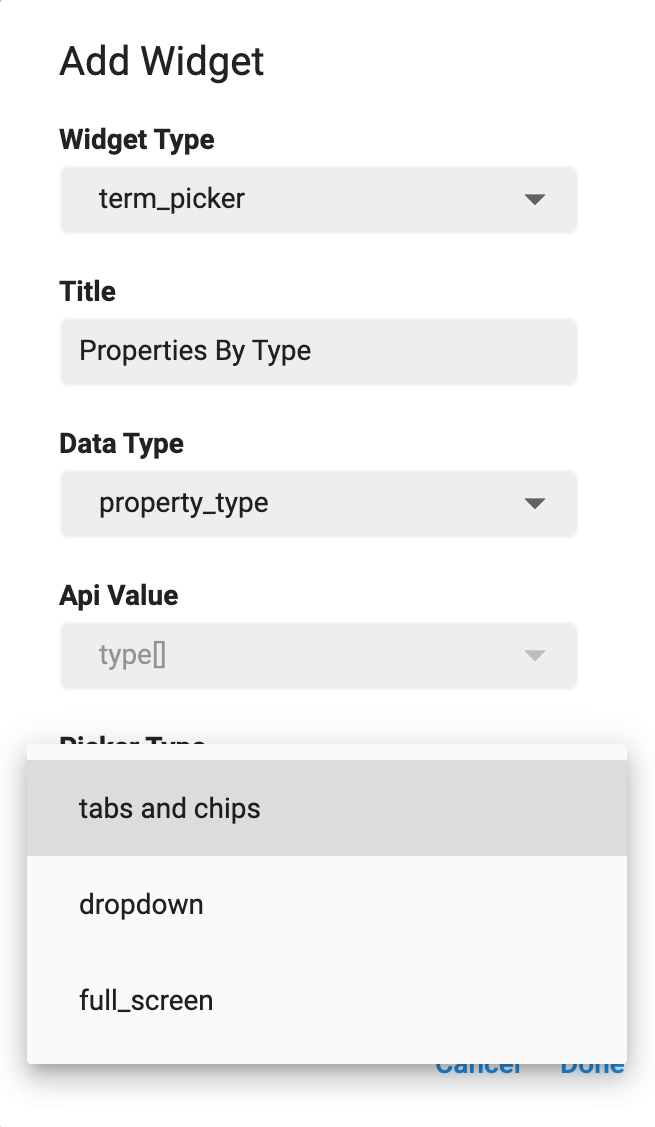
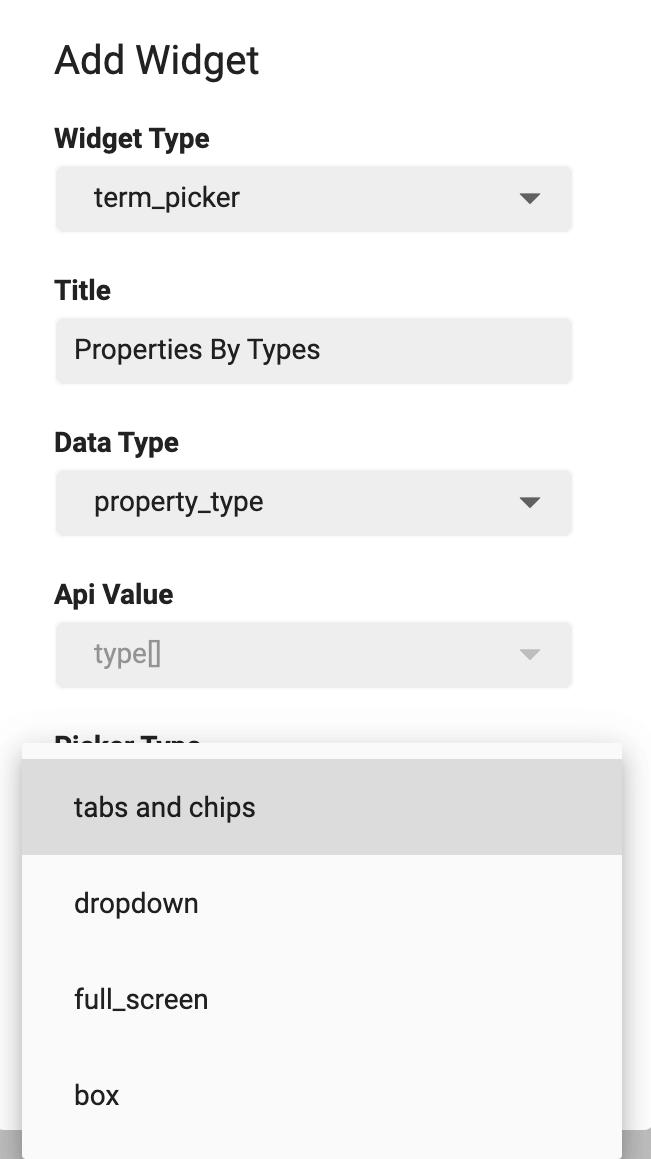
Updating Docs according to version 1.3.8 (commit # 11) Updated Search Page docs. (added full_screen and box term picker description)

diff --git a/_docs/houzi-builder/9_customize-search.md b/_docs/houzi-builder/9_customize-search.md
@@ -141,6 +141,10 @@ You are provided with the dropdown list of  **Picker Types**. The details of pic
 
   - **dropdown:** To view properties related categories and sub-categories data in the form of *Dropdown*.
 
+  - **full_screen:** To view properties related categories and sub-categories data in the form of *full_screen* menu. A new page will open, listing all the property related catagories with additional *Search Bar* to search required catagory with ease.
+
+  - **box:** To view properties related categories and sub-categories data in the form of *Grid View* having 3 catagories per row with their icons and titles.
+
     <img src="../../images/search-term-picker-pickertype-screenshot.png" alt="search-term-picker-pickertype-screenshot" title="search-term-picker-pickertype-screenshot" width=300 border= "1px solid"/>
 
   - If selected *Widget Type* is **string_picker**, you can select from following picker types:  
